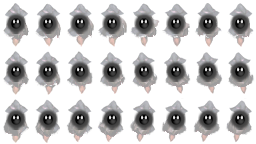
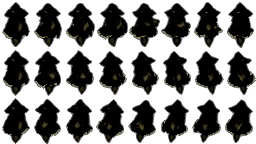
new trance sprites

diff --git a/LetoilePlayerReskin/files.js b/LetoilePlayerReskin/files.js
@@ -130,13 +130,13 @@
 	"th13/pl02.anm": 1477529733,
 	"th13/pl03.anm": 556516029,
 	"th13/player/pl00/pl00.png": 916781930,
-	"th13/player/pl00/pl00f.png": 2056012058,
+	"th13/player/pl00/pl00f.png": 3668362164,
 	"th13/player/pl01/pl01.png": 1293245045,
-	"th13/player/pl01/pl01d.png": 3289405246,
+	"th13/player/pl01/pl01d.png": 2551393394,
 	"th13/player/pl02/pl02.png": 2666024068,
-	"th13/player/pl02/pl02c.png": 3053162246,
+	"th13/player/pl02/pl02c.png": 1342215338,
 	"th13/player/pl03/pl03.png": 1941707685,
-	"th13/player/pl03/pl03b.png": 2697083819,
+	"th13/player/pl03/pl03b.png": 3224013910,
 	"th13/title/weapon_00.png": 2366874729,
 	"th13/title/weapon_00ex.png": 2358939971,
 	"th13/title/weapon_01.png": 1219806953,
